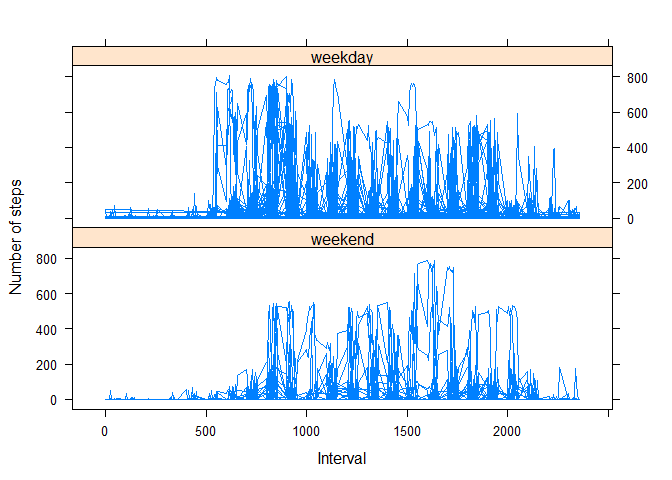
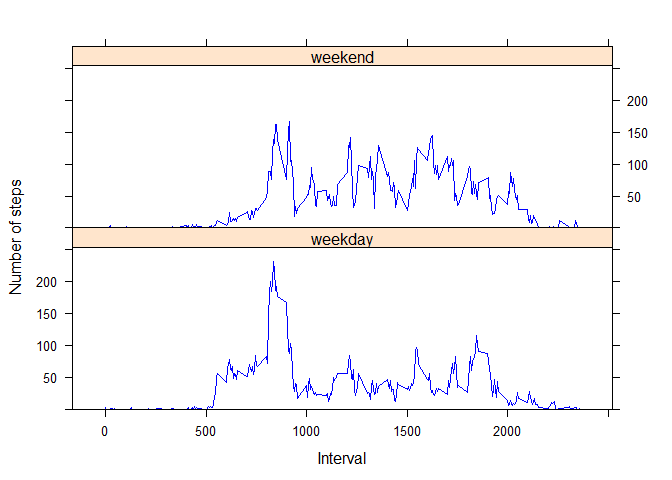
fine tuning of text and graphics

diff --git a/PA1_template.html b/PA1_template.html
@@ -79,23 +79,29 @@ steps &lt;- tapply(activity$steps, activity$date, function(x) sum(x, na.rm = TRU
[1 lines of base64/hex data omitted]
 <pre class="r"><code>steps_mean &lt;- round(mean(steps), digits = 2)
 steps_median &lt;- median(steps)</code></pre>
-<p>mean of total number of steps taken per day: 9354.23<br />median of total number of steps taken per day: 10395</p>
+<p>Mean of total number of steps taken per day: 9354.23<br />Median of total number of steps taken per day: 10395</p>
 </div>
 <div id="what-is-the-average-daily-activity-pattern" class="section level2">
 <h2>What is the average daily activity pattern?</h2>
 <p>Make a time series plot of the 5-minute interval (x-axis) and the average number of steps taken, averaged across all days (y-axis).</p>
 <pre class="r"><code># take mean of steps factorized by interval
 interval_steps &lt;- tapply(activity$steps, activity$interval, function(x) mean(x, na.rm = TRUE))
-plot(interval_steps, type = &quot;l&quot;, xlab = &quot;Interval&quot;, ylab = &quot;Number of steps&quot;)</code></pre>
[1 lines of base64/hex data omitted]
-<pre class="r"><code>max_interval &lt;- names(which(interval_steps == max(interval_steps)))</code></pre>
+
+# plot time series of average steps per interval with custom x-axis ticks
+plot(interval_steps, type = &quot;l&quot;, xlab = &quot;Interval&quot;, xaxt=&quot;n&quot;, ylab = &quot;Number of steps&quot;)
+custom_axTicks &lt;- axTicks(1)
+custom_axTicks[1] &lt;- 1
+axis(1, at = axTicks(1), labels = names(interval_steps[custom_axTicks]))</code></pre>
[1 lines of base64/hex data omitted]
+<pre class="r"><code># calculate interval with most steps
+max_interval &lt;- names(which(interval_steps == max(interval_steps)))</code></pre>
 <p>5-minute interval containing maximum number of steps: 835</p>
 </div>
 <div id="imputing-missing-values" class="section level2">
 <h2>Imputing missing values</h2>
 <p>Note that there are a number of days/intervals where there are missing values (coded as NA). The presence of missing days may introduce bias into some calculations or summaries of the data.</p>
 <pre class="r"><code>missing_sum &lt;- sum(is.na(activity))</code></pre>
-<p>total number of missing values in the dataset: 2304</p>
+<p>Total number of missing values in the dataset: 2304</p>
 <p>The strategy for filling in all of the missing values in the dataset is to take the mean of a 5-minute interval and assign it to a missing value in that interval.</p>
 <pre class="r"><code># copy dataset
 activity_full &lt;- activity
@@ -110,10 +116,10 @@ for (i in 1 : nrow(activity_full)) {
 <pre class="r"><code>steps_full &lt;- tapply(activity_full$steps, activity_full$date, function(x) sum(x, na.rm = TRUE))
 hist(steps_full, xlab = &quot;Number of steps&quot;, main = &quot;Histogram&quot;)</code></pre>
[1 lines of base64/hex data omitted]
-<pre class="r"><code>stepsfullmean &lt;- mean(steps_full)
-stepsfullmedian &lt;- median(steps_full)</code></pre>
-<p>mean of total number of steps taken per day: 1.076618910^{4}<br />median of total number of steps taken per day: 1.076618910^{4}</p>
-<p>Yes, they differ from the steps where missing values were removed because less steps get taken into account. Imputing missing values has the impact of increasing the total daily number of steps.</p>
+<pre class="r"><code>steps_full_mean &lt;- round(mean(steps_full), digits = 2)
+steps_full_median &lt;- round(median(steps_full), digits = 2)</code></pre>
+<p>Mean of total number of steps taken per day: 10766.19<br />Median of total number of steps taken per day: 10766.19</p>
+<p>The mean and median from imputed step counts differ from the mean and median where missing values were removed because less steps got taken into account. Imputing missing values has the impact of increasing the total daily number of steps.</p>
 </div>
 <div id="are-there-differences-in-activity-patterns-between-weekdays-and-weekends" class="section level2">
 <h2>Are there differences in activity patterns between weekdays and weekends?</h2>
@@ -133,8 +139,21 @@ for (i in 1 : nrow(activity_full)) {
 # create factor column daytype in data frame
 activity_full$daytype &lt;- factor(daytype, labels = c(&quot;weekend&quot;, &quot;weekday&quot;))</code></pre>
 <p>Make a panel plot containing a time series plot of the 5-minute interval (x-axis) and the average number of steps taken, averaged across all weekday days or weekend days (y-axis).</p>
-<pre class="r"><code>xyplot(activity_full$steps ~ activity_full$interval | activity_full$daytype, data = activity_full, xlab = &quot;Interval&quot;, ylab = &quot;Number of steps&quot;, layout = c(1, 2), type = &quot;l&quot;)</code></pre>
[1 lines of base64/hex data omitted]
+<pre class="r"><code># create two datasets for weekend and weekday data
+activity_weekend &lt;- subset(activity_full, daytype == &quot;weekend&quot;)
+activity_weekday &lt;- subset(activity_full, daytype == &quot;weekday&quot;)
+
+# take mean of steps factorized by interval
+interval_steps_weekend &lt;- tapply(activity_weekend$steps, activity_weekend$interval, mean)
+interval_steps_weekday &lt;- tapply(activity_weekday$steps, activity_weekday$interval, mean)
+
+# get maximum average step count of both weekends and weekdays
+max_average_value &lt;- max(c(interval_steps_weekend, interval_steps_weekday))
+
+# draw xyplot factorized by daytype, plotting average steps over interval
+xyplot(steps ~ interval | daytype, data = activity_full, xlab = &quot;Interval&quot;, ylab = &quot;Number of steps&quot;, layout = c(1, 2), type = &quot;l&quot;, ylim = c(0, max_average_value + max_average_value/10), index.cond = list(c(2, 1)), panel = function(x, y, ...) { panel.average(x, y, horizontal = FALSE, col = &quot;blue&quot;, ...)})</code></pre>
[1 lines of base64/hex data omitted]
+<p>There is a difference in activity patterns between weekdays and weekends. The number of steps on weekdays is greater in early and late intervals while the number of steps on the weekends is increased during the day.</p>
 </div>
 
 

diff --git a/PA1_template.md b/PA1_template.md
@@ -41,8 +41,8 @@ hist(steps, xlab = "Number of steps", main = "Histogram")
 steps_mean <- round(mean(steps), digits = 2)
 steps_median <- median(steps)
 ```
-mean of total number of steps taken per day: 9354.23  
-median of total number of steps taken per day: 10395
+Mean of total number of steps taken per day: 9354.23  
+Median of total number of steps taken per day: 10395
 
 
 ## What is the average daily activity pattern?
@@ -51,12 +51,18 @@ Make a time series plot of the 5-minute interval (x-axis) and the average number
 ```r
 # take mean of steps factorized by interval
 interval_steps <- tapply(activity$steps, activity$interval, function(x) mean(x, na.rm = TRUE))
-plot(interval_steps, type = "l", xlab = "Interval", ylab = "Number of steps")
+
+# plot time series of average steps per interval with custom x-axis ticks
+plot(interval_steps, type = "l", xlab = "Interval", xaxt="n", ylab = "Number of steps")
+custom_axTicks <- axTicks(1)
+custom_axTicks[1] <- 1
+axis(1, at = axTicks(1), labels = names(interval_steps[custom_axTicks]))
 ```
 
 ![](PA1_template_files/figure-html/unnamed-chunk-5-1.png) 
 
 ```r
+# calculate interval with most steps
 max_interval <- names(which(interval_steps == max(interval_steps)))
 ```
 5-minute interval containing maximum number of steps: 835
@@ -68,7 +74,7 @@ Note that there are a number of days/intervals where there are missing values (c
 ```r
 missing_sum <- sum(is.na(activity))
 ```
-total number of missing values in the dataset: 2304  
+Total number of missing values in the dataset: 2304  
   
 The strategy for filling in all of the missing values in the dataset is to take the mean of a 5-minute interval and assign it to a missing value in that interval.
 
@@ -95,13 +101,13 @@ hist(steps_full, xlab = "Number of steps", main = "Histogram")
 ![](PA1_template_files/figure-html/unnamed-chunk-8-1.png) 
 
 ```r
-stepsfullmean <- mean(steps_full)
-stepsfullmedian <- median(steps_full)
+steps_full_mean <- round(mean(steps_full), digits = 2)
+steps_full_median <- round(median(steps_full), digits = 2)
 ```
-mean of total number of steps taken per day: 1.0766189\times 10^{4}  
-median of total number of steps taken per day: 1.0766189\times 10^{4}
+Mean of total number of steps taken per day: 10766.19  
+Median of total number of steps taken per day: 10766.19
 
-Yes, they differ from the steps where missing values were removed because less steps get taken into account. Imputing missing values has the impact of increasing the total daily number of steps.
+The mean and median from imputed step counts differ from the mean and median where missing values were removed because less steps got taken into account. Imputing missing values has the impact of increasing the total daily number of steps.
 
 
 ## Are there differences in activity patterns between weekdays and weekends?
@@ -128,8 +134,21 @@ activity_full$daytype <- factor(daytype, labels = c("weekend", "weekday"))
 Make a panel plot containing a time series plot of the 5-minute interval (x-axis) and the average number of steps taken, averaged across all weekday days or weekend days (y-axis).
 
 ```r
-xyplot(activity_full$steps ~ activity_full$interval | activity_full$daytype, data = activity_full, xlab = "Interval", ylab = "Number of steps", layout = c(1, 2), type = "l")
+# create two datasets for weekend and weekday data
+activity_weekend <- subset(activity_full, daytype == "weekend")
+activity_weekday <- subset(activity_full, daytype == "weekday")
+
+# take mean of steps factorized by interval
+interval_steps_weekend <- tapply(activity_weekend$steps, activity_weekend$interval, mean)
+interval_steps_weekday <- tapply(activity_weekday$steps, activity_weekday$interval, mean)
+
+# get maximum average step count of both weekends and weekdays
+max_average_value <- max(c(interval_steps_weekend, interval_steps_weekday))
+
+# draw xyplot factorized by daytype, plotting average steps over interval
+xyplot(steps ~ interval | daytype, data = activity_full, xlab = "Interval", ylab = "Number of steps", layout = c(1, 2), type = "l", ylim = c(0, max_average_value + max_average_value/10), index.cond = list(c(2, 1)), panel = function(x, y, ...) { panel.average(x, y, horizontal = FALSE, col = "blue", ...)})
 ```
 
 ![](PA1_template_files/figure-html/unnamed-chunk-10-1.png) 
-There is a difference in activity patterns as the number of steps on weekdays are increased in earlier intervals compared to the weekend.
+
+There is a difference in activity patterns between weekdays and weekends. The number of steps on weekdays is greater in early and late intervals while the number of steps on the weekends is increased during the day.
